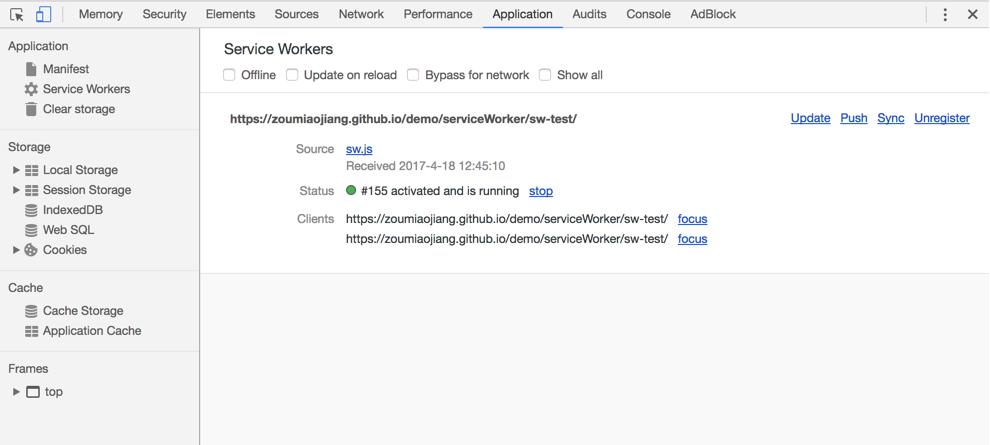
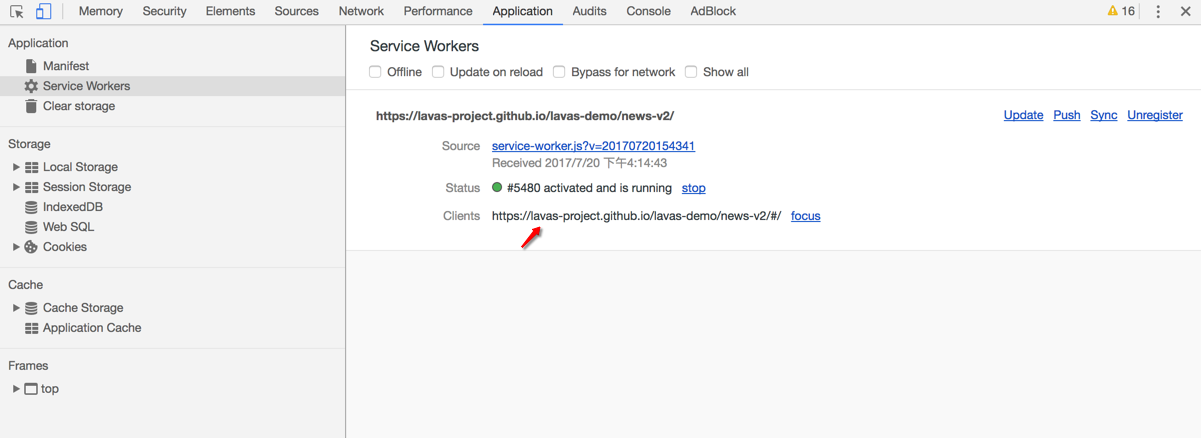
update sw-debug images&link

diff --git a/offline-and-cache-loading/service-worker/service-worker-debug.md b/offline-and-cache-loading/service-worker/service-worker-debug.md
@@ -34,7 +34,7 @@ self.addEventListener('install', function () {
 
 ![Chrome debug](./images/chrome_debug.png)
 
-如果 Service Worker 线程已安装到当前打开的页面上，您会看到它将列示在此窗格中。 例如，在上方的屏幕截图中，`zoumiaojiang.github.io/serviceWorker/sw-test/` 的作用域内安装了一个 Service Worker 线程。
+如果 Service Worker 线程已安装到当前打开的页面上，您会看到它将列示在此窗格中。 例如，在上方的屏幕截图中，`https://lavas-project.github.io/lavas-demo/news-v2/#/` 的作用域内安装了一个 Service Worker 线程。
 
 我们熟悉一下这些个选项：
 
